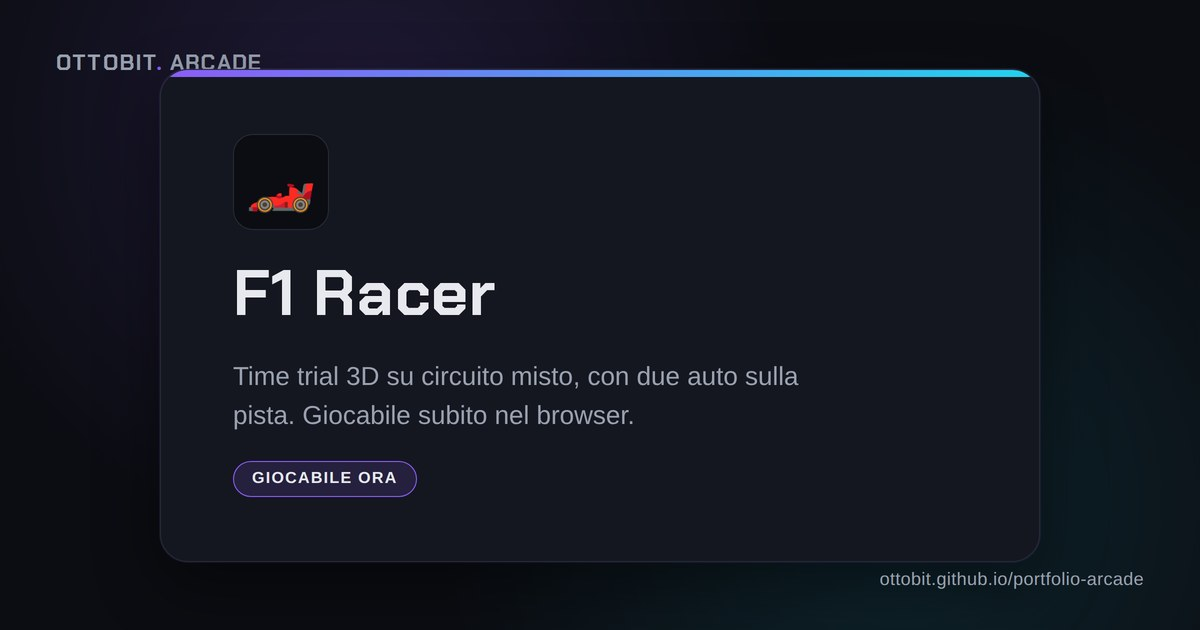
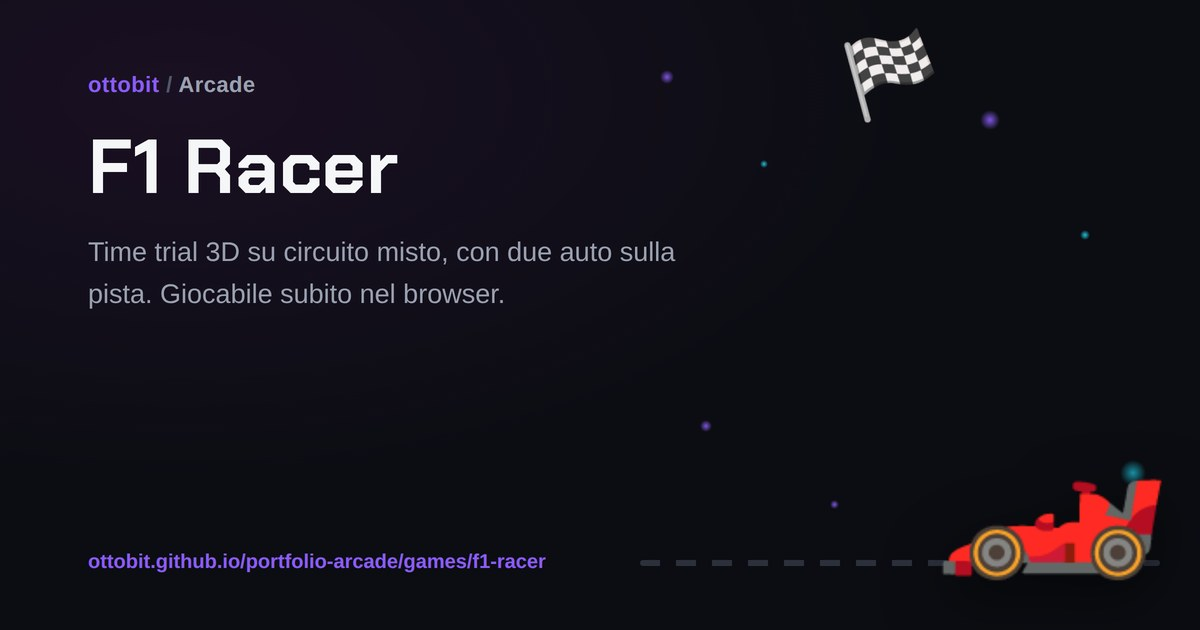
La card di F1 Racer nell'arcade è la sua og-card, per intero (#6)
* La card di F1 Racer nell'arcade è la sua og-card, per intero

Stesso trattamento appena dato a Embergale nel portfolio: niente
icona/titolo/descrizione separati, la card è l'immagine og-f1-racer.jpg
mostrata per intero (aspect-ratio 1200:630) — titolo e descrizione
sono già dentro l'immagine. Il pattern è generico in games.js/main.js:
un gioco con un campo `image` ottiene questo trattamento, gli altri
restano sul layout icona+testo.

Claude-Session: https://claude.ai/code/session_013rZFgYsfz8J8V6F1rrPeq2

* Fix: .grid usa auto-fit, non auto-fill

Con un solo gioco, auto-fill lasciava colonne fantasma vuote e la
card di F1 Racer restava piccola nella riga invece di riempirla —
lo stesso fix già presente da sempre sul .card-grid del portfolio,
che è l'esempio da cui questo pattern è nato.

Claude-Session: https://claude.ai/code/session_013rZFgYsfz8J8V6F1rrPeq2

* Rifà l'og-card di F1 Racer come poster, non come finta card

La prima versione disegnava dentro l'immagine una card finta (bordo
arrotondato, chip icona, pulsante "Giocabile ora") — usata come intera
card reale, il risultato era una card dentro l'altra. Rifatta seguendo
lo schema di og-embergale.jpg: poster a piena tela (eyebrow, titolo,
descrizione, URL in basso, illustrazione a destra), senza chrome
di card disegnato dentro l'immagine stessa.

Claude-Session: https://claude.ai/code/session_013rZFgYsfz8J8V6F1rrPeq2

---------

diff --git a/assets/css/style.css b/assets/css/style.css
@@ -74,7 +74,11 @@ main {
 
 .grid {
   display: grid;
-  grid-template-columns: repeat(auto-fill, minmax(240px, 1fr));
+  /* auto-fit, not auto-fill: with fewer games than columns (today, just
+     one), auto-fill leaves phantom empty columns and the real card stays
+     stuck at its minimum width instead of filling the row — same fix
+     already in place on the portfolio's own .card-grid. */
+  grid-template-columns: repeat(auto-fit, minmax(240px, 1fr));
   gap: 1rem;
 }
 
@@ -104,6 +108,21 @@ main {
   background: linear-gradient(90deg, var(--accent), var(--accent-2));
   opacity: 0.55;
   transition: opacity 0.15s ease;
+}
+
+/* A card that's nothing but a game's own og-card image — no separate
+   icon/title/description because the image already carries them (same
+   pattern as the portfolio's Embergale entry in its Playground). */
+.card--image-only {
+  padding: 0;
+}
+
+.card-image {
+  display: block;
+  width: 100%;
+  height: auto;
+  aspect-ratio: 1200 / 630;
+  object-fit: cover;
 }
 
 .card-icon {
